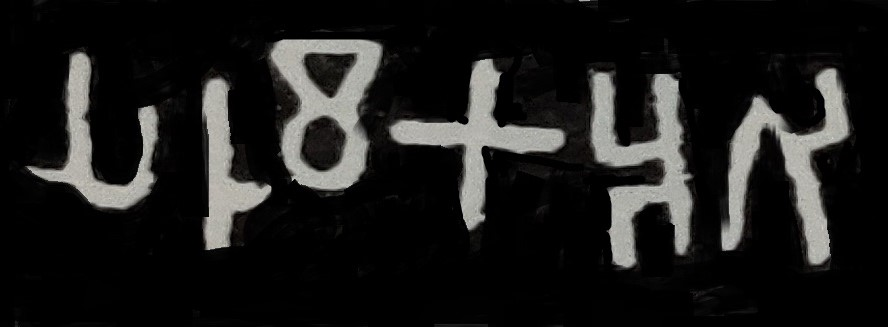
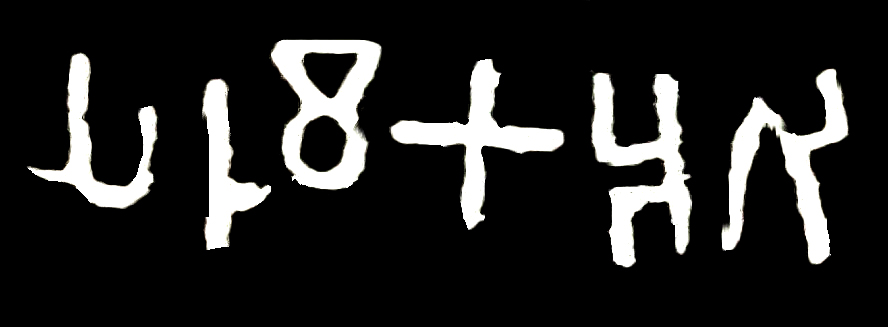
segmentation model fixd for the tested plate

Changed region(s): [[0.2128, 0.0917, 0.973, 0.8257], [0.0304, 0.1529, 0.1824, 0.6422], [0.4865, 0.9786, 0.5473, 1.0]]

diff --git a/features/segmentation_module/segmentation.py b/features/segmentation_module/segmentation.py
@@ -122,8 +122,8 @@ def refine_array(array_upper, array_lower):
         if array_lower[y] + 5 < array_lower[y + 1]:
             lowerlines.append(array_lower[y] + 10)
 
-    #upperlines.append(array_upper[-1] - 10)
-    #lowerlines.append(array_lower[-1] + 10)
+    upperlines.append(array_upper[-1] - 10)
+    lowerlines.append(array_lower[-1] + 10)
 
     return upperlines, lowerlines
 
@@ -200,7 +200,7 @@ def letter_seg(lines_img, x_lines, i):
 
 
 print("\n........Program Initiated.......\n")
-src_img = cv2.imread('img_2.jpg', 1)
+src_img = cv2.imread('plate2.jpg', 1)
 copy = src_img.copy()
 height = src_img.shape[0]
 width = src_img.shape[1]
